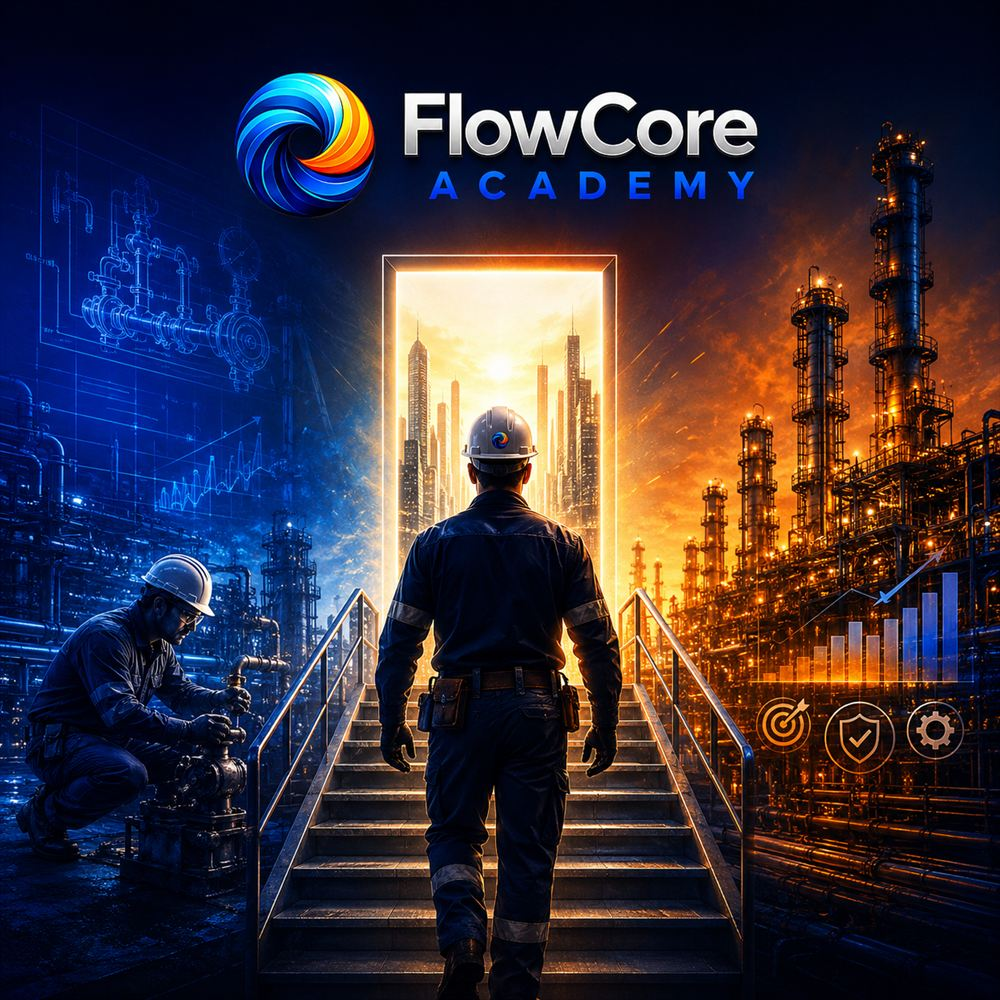
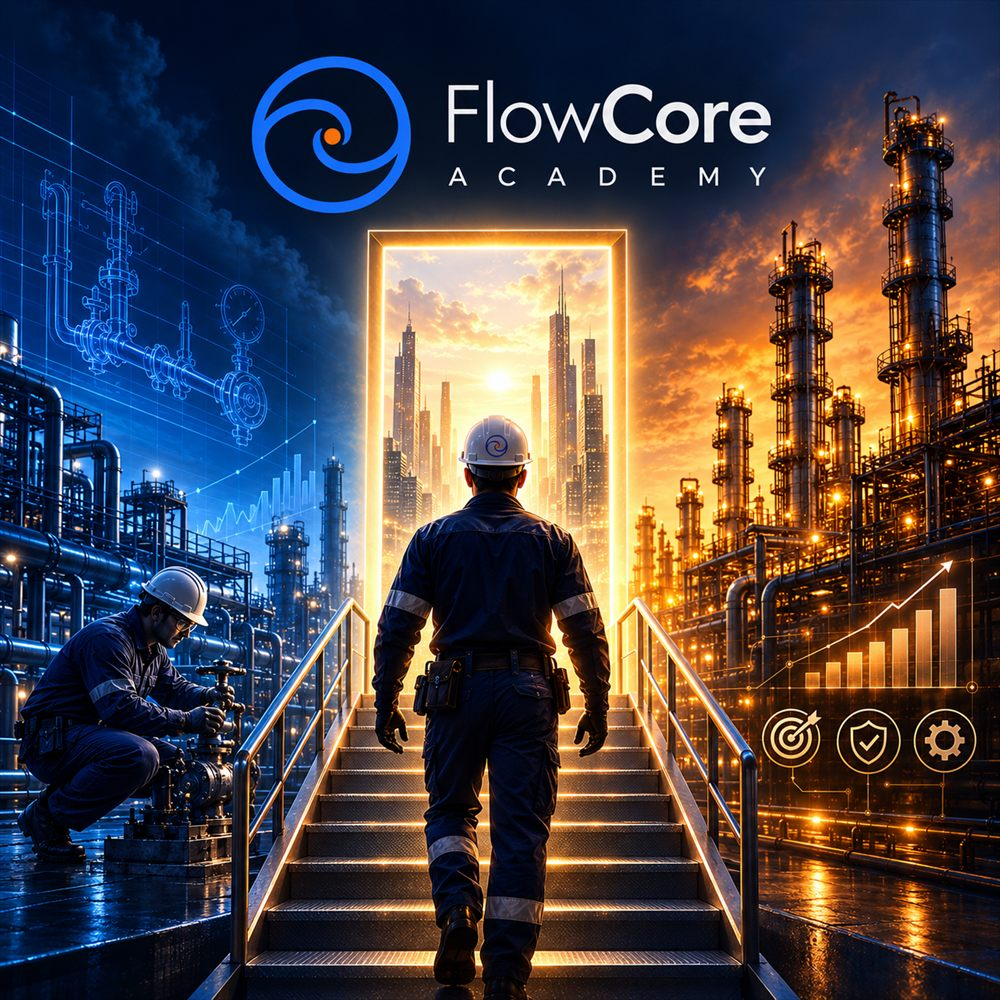
Add files via upload

diff --git a/index.html b/index.html
@@ -2514,7 +2514,7 @@
       padding: 0;
       --academy-white-bg: url('banner-academy.jpg');
       background:
-        linear-gradient(135deg, #030A16 0%, #051124 31%, #0A1937 46%, #F3F7FC 46%, #FFFFFF 100%);
+        linear-gradient(135deg, #030A16 0%, #051124 34%, #0A1937 52%, #F3F7FC 52%, #FFFFFF 100%);
       background-color: #030A16;
     }
 
@@ -2542,7 +2542,7 @@
       background-size: cover;
       background-position: center;
       background-repeat: no-repeat;
-      clip-path: polygon(64% 0, 100% 0, 100% 100%, 25% 100%);
+      clip-path: polygon(73% 0, 100% 0, 100% 100%, 34% 100%);
       opacity: 0.34;
       filter: saturate(1.08) contrast(1.08);
       z-index: 1;
@@ -2571,8 +2571,10 @@
       width: min(115%, 598px);
       height: auto;
       display: block;
+      transform: translateY(-10%);
       filter: drop-shadow(0 20px 38px rgba(0, 0, 0, 0.32));
     }
+
 
     .academy-content {
       max-width: 620px;
@@ -2603,7 +2605,7 @@
       font-size: clamp(2.3rem, 4.8vw, 4.5rem);
       line-height: 0.98;
       margin-bottom: 22px;
-      color: var(--accent-secondary);
+      color: #1860B4;
     }
 
     .academy-text {
